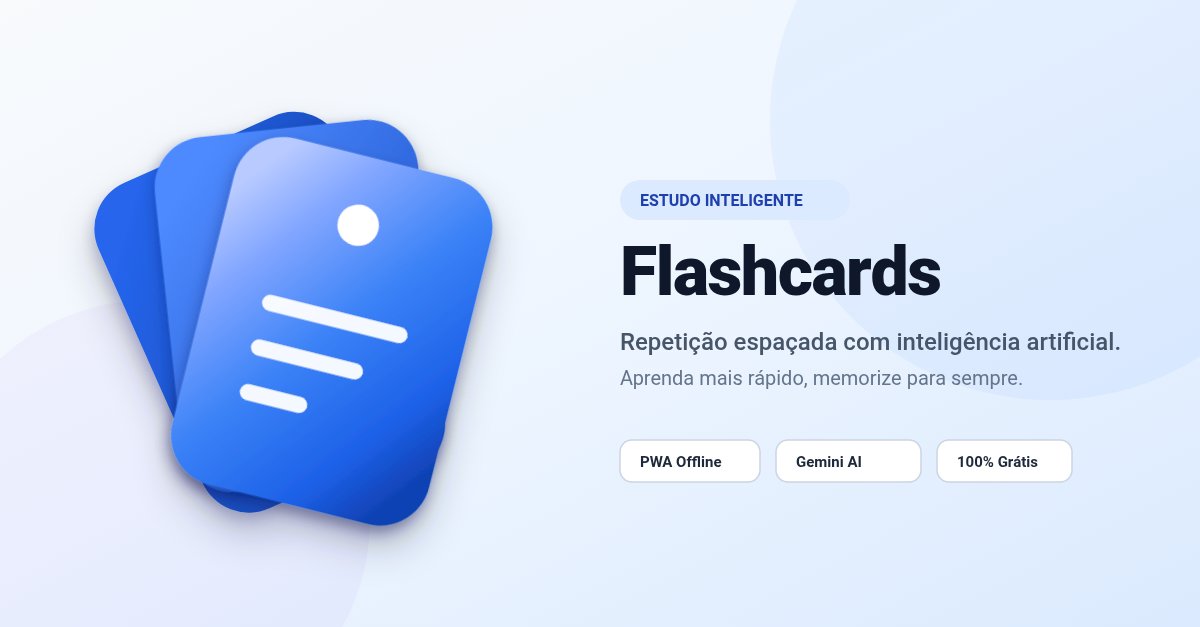
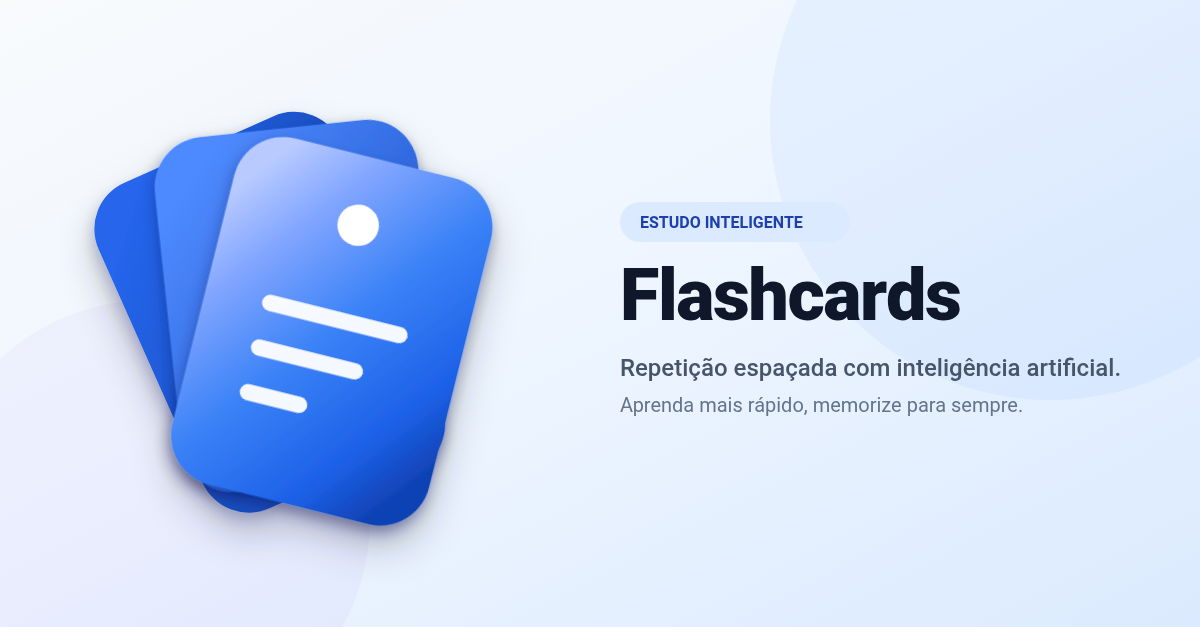
style(og-image): remove feature pills and bump cache to v15.23

Changed region(s): [[0.4933, 0.3939, 0.925, 0.6667], [0.5242, 0.697, 0.8942, 0.7879], [0.5242, 0.303, 0.6783, 0.3636]]

diff --git a/sw.js b/sw.js
@@ -3,7 +3,7 @@
  * Copyright (C) 2026 Arthur <arthur.paludo.c@gmail.com>
  */
 
-const CACHE_NAME = 'flashcards-v15.22'; // Increment version to trigger update
+const CACHE_NAME = 'flashcards-v15.23'; // Increment version to trigger update
 
 const BASE_PATH = self.registration && self.registration.scope 
   ? new URL(self.registration.scope).pathname.replace(/\/$/, '') 
